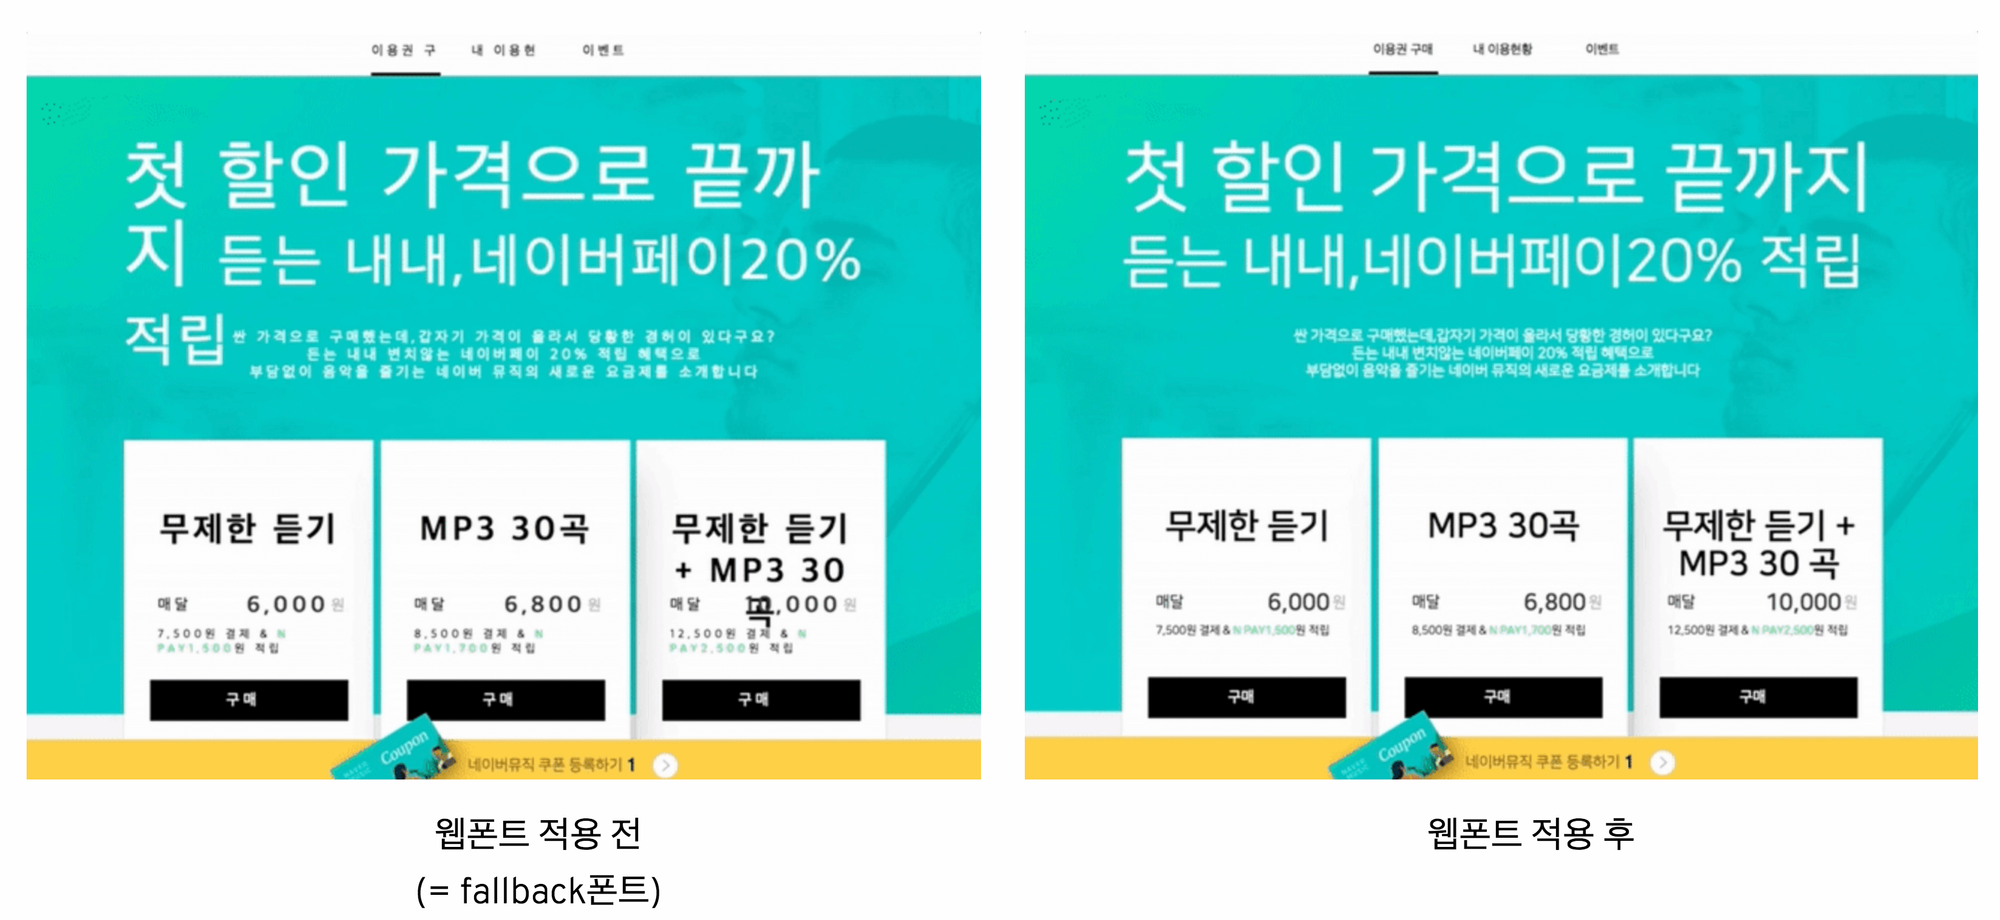
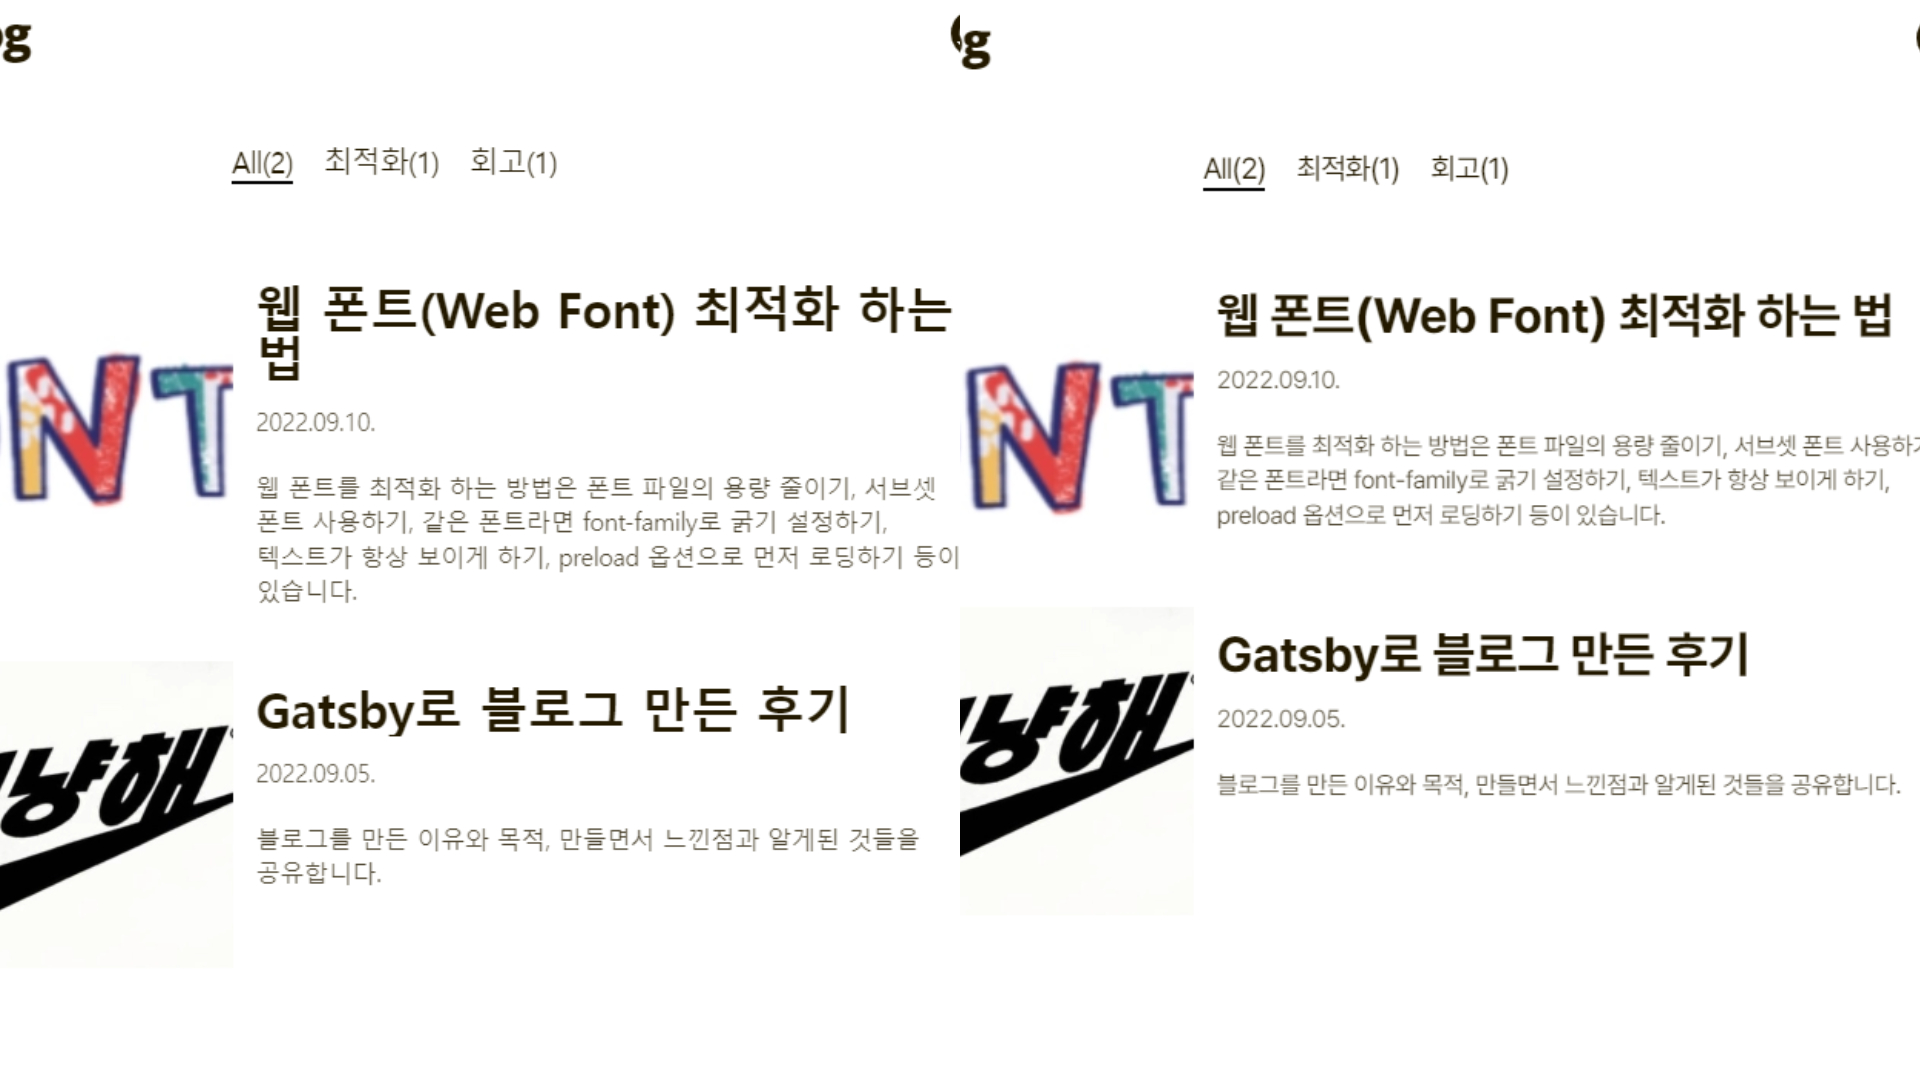
:gift: : feat: FOUT fallback 폰트 처리

diff --git a/src/components/Common/GlobalStyle.tsx b/src/components/Common/GlobalStyle.tsx
@@ -35,8 +35,9 @@ const defaultStyle = css`
 
   html,
   body,
-  div,
   span,
+  main,
+  div,
   applet,
   object,
   iframe,
@@ -101,7 +102,6 @@ const defaultStyle = css`
   figure,
   figcaption,
   footer,
-  header,
   hgroup,
   menu,
   nav,
@@ -127,7 +127,6 @@ const defaultStyle = css`
   figcaption,
   figure,
   footer,
-  header,
   hgroup,
   menu,
   nav,
@@ -136,14 +135,11 @@ const defaultStyle = css`
   }
   body {
     line-height: 1;
-    font-family: 'Pretendard', -apple-system, BlinkMacSystemFont,
-      system-ui, Roboto, 'Helvetica Neue', 'Segoe UI', 'Apple SD Gothic Neo',
-      'Noto Sans KR', 'Malgun Gothic', 'Apple Color Emoji', 'Segoe UI Emoji',
-      'Segoe UI Symbol', sans-serif;
+    font-family: sans-serif, arial;
     color: #231900;
     font-size: 16px;
     word-break: keep-all;
-    letter-spacing: -0.3px;
+    /* letter-spacing: -0.3px; */
     overflow-x: hidden;
     -webkit-font-smoothing: antialiased;
   }
@@ -162,9 +158,38 @@ const defaultStyle = css`
     border-collapse: collapse;
     border-spacing: 0;
   }
-  div,
+
   a {
     text-decoration: none;
+  }
+
+  header a[class*='Logo'] {
+    font-family: Roboto, arial, sans-serif;
+    font-size: 2rem;
+    font-weight: 700;
+    letter-spacing: -3.95px;
+  }
+
+  .lato header a[class*='Logo'] {
+    font-family: 'Lato', arial;
+    letter-spacing: -2px;
+  }
+
+  main div[class*='Title'] {
+    font-family: sans-serif, arial;
+    letter-spacing: -2.5px;
+    font-size: 2em;
+    font-weight: 900;
+  }
+
+  .pretendard main div[class*='Title'] {
+    letter-spacing: -0.3px;
+    font-weight: bold;
+    font-family: 'Pretendard', sans-serif;
+  }
+
+  .pretendard body {
+    font-family: 'Pretendard', sans-serif;
   }
 `;
 

diff --git a/static/fonts/font.css b/static/fonts/font.css
@@ -1,0 +1,40 @@
+@font-face {
+  font-family: 'Lato';
+  src: local('Lato');
+  src: url('/fonts/Lato-Black.woff2') format('woff2');
+  src: url('/fonts/Lato-Black.woff') format('woff');
+  font-weight: normal;
+  font-display: swap;
+}
+
+@font-face {
+  font-family: 'Pretendard';
+  src: local('Pretendard');
+  src: url('/fonts/Pretendard-Regular.subset.woff2') format('woff2');
+  src: url('/fonts/Pretendard-Regular.subset.woff') format('woff');
+  font-weight: normal;
+  font-display: swap;
+}
+
+@font-face {
+  font-family: 'Pretendard';
+  src: local('Pretendard');
+  src: url('/fonts/Pretendard-Bold.subset.woff2') format('woff2');
+  src: url('/fonts/Pretendard-Bold.subset.woff') format('woff');
+  font-weight: bold;
+  font-display: swap;
+}
+
+body {
+  font-family: sans-serif, Lucida Sans Unicode, arial;
+}
+
+/* .fonts-loaded body {
+  font-family: 'Pretendard', -apple-system, BlinkMacSystemFont, system-ui,
+    Roboto, 'Helvetica Neue', 'Segoe UI', 'Apple SD Gothic Neo', 'Noto Sans KR',
+    'Malgun Gothic', 'Apple Color Emoji', 'Segoe UI Emoji', 'Segoe UI Symbol',
+    sans-serif;
+} */
+.fonts-loaded body {
+  font-family: 'Pretendard', sans-serif;
+}

diff --git a/src/components/Common/Template.tsx b/src/components/Common/Template.tsx
@@ -13,10 +13,17 @@ type TemplateProps = {
   children: ReactNode;
 };
 
-const Container = styled.main`
+const Container = styled.div`
   display: flex;
   flex-direction: column;
   height: 100vh;
+`;
+
+const Main = styled.main`
+  display: flex;
+  flex-direction: column;
+  height: auto;
+  margin-top: 60px;
 `;
 
 const Template: FunctionComponent<TemplateProps> = function ({
@@ -48,7 +55,6 @@ const Template: FunctionComponent<TemplateProps> = function ({
           as="font"
           type="font/woff2"
         />
-
         <meta name="description" content={description} />
         <meta name="viewport" content="width=device-width, initial-scale=1.0" />
         <meta httpEquiv="Content-Type" content="text/html;charset=UTF-8" />
@@ -80,7 +86,7 @@ const Template: FunctionComponent<TemplateProps> = function ({
 
       <GlobalStyle />
       <Header />
-      {children}
+      <Main>{children}</Main>
       <Footer />
     </Container>
   );

diff --git a/src/components/Main/PostItem.tsx b/src/components/Main/PostItem.tsx
@@ -45,17 +45,14 @@ const PostItemContent = styled.div`
 
 const Title = styled.div`
   display: -webkit-box;
-  font-weight: bold;
-  font-size: 2em;
   overflow: hidden;
   margin-bottom: 0.5em;
   text-overflow: ellipsis;
   while-space: normal;
   overflow-wrap: break-word;
+  padding-bottom: 0.1rem;
   -webkit-line-clamp: 2;
   -webkit-box-orient: vertical;
-  font-weight: border;
-  padding-bottom: 0.1rem;
 
   @media (max-width: 768px) {
     font-size: 1.8em;

diff --git a/gatsby-browser.js b/gatsby-browser.js
@@ -6,3 +6,15 @@
 
 // You can delete this file if you're not using it
 import 'prismjs/themes/prism-tomorrow.css';
+import FontFaceObserver from 'fontfaceobserver';
+
+var bodyFont = new FontFaceObserver('Pretendard');
+var headerFont = new FontFaceObserver('Lato');
+
+headerFont.load(null, 5000).then(() => {
+	document.documentElement.classList.add('lato');
+});
+
+bodyFont.load(null, 5000).then(() => {
+	document.documentElement.classList.add('pretendard');
+});

diff --git a/src/components/Common/Header.tsx b/src/components/Common/Header.tsx
@@ -36,10 +36,6 @@ const Wrapper = styled.div`
 
 const Logo = styled(Link)`
   color: #231900;
-  font-size: 2rem;
-  line-height: 1.5rem;
-  font-family: 'Lato', sans-serif;
-  text-align: center;
   letter-spacing: -2px;
 
   @media (max-width: 768px) {

diff --git a/src/components/Post/PostContent.tsx b/src/components/Post/PostContent.tsx
@@ -174,6 +174,12 @@ const MarkdownRenderer = styled.div`
       margin: 50px 0;
       border-top: 1px solid rgba(0, 0, 0, 0.3);
     }
+    table {
+      font-size: 1.1rem;
+    }
+    td {
+      padding-left: 0.4rem;
+    }
   }
 `;
 

diff --git a/src/components/Main/CategoryList.tsx b/src/components/Main/CategoryList.tsx
@@ -62,7 +62,7 @@ const CategoryListWrapper = styled.div`
   flex-wrap: wrap;
   justify-content: center;
   width: 768px;
-  margin: 100px auto 0;
+  margin: 40px auto 0;
 
   @media (max-width: 768px) {
     width: 100%;

diff --git a/gatsby-config.js b/gatsby-config.js
@@ -106,9 +106,5 @@ module.exports = {
       },
     },
     `gatsby-plugin-subfont`,
-    {
-      resolve: 'gatsby-plugin-web-font-loader',
-      options: {},
-    },
   ],
 };

diff --git a/contents/webfont-optimization.md b/contents/webfont-optimization.md
@@ -90,7 +90,7 @@ WOFF2 형식은 모든 브라우저에서 사용할 수 있고 용량이 가장 
 }
 ```
 
-font-family명은 NanumSquareWeb으로 하나지만 font-weight를 이용하여 사용할 웹 폰트를 다르게 선언하고 있습니다. 이런 경우,
+font-family명은 pretendard 하나지만 font-weight를 이용하여 사용할 웹 폰트를 다르게 선언하고 있습니다. 이런 경우,
 
 - font-weight가 300일 경우에는 Pretendard-Light.woff
 - font-weight가 400일 경우에는 Pretendard-Regular.woff
@@ -148,18 +148,50 @@ CSS의 font-display 속성을 이용하면 웹 폰트의 로딩 상태에 따른
 
 ![FOUT의 단점 레아이웃 깨짐](./images/FOUT-side-effect.png)
 
-위와 같이 FOUT의 단점은 글꼴의 자간, 높이 등 서식이 달라 웹 폰트 적용 전과 후의 레이아웃이 변경될 수 있다고 했습니다. 이것은 [Font Face Observer 라이브러리와](https://d2.naver.com/helloworld/4969726#ch4-2) [Font style matcher](https://sangziii.github.io/fontStyleMatcher) 앱을 사용하면 문제를 해결할 수 있습니다.
+위와 같이 FOUT의 단점은 글꼴의 자간, 높이 등 서식이 달라 웹 폰트 적용 전과 후의 레이아웃이 변경될 수 있다고 했습니다. 이것은 [Font Face Observer](https://fontfaceobserver.com/), [Font style matcher](https://sangziii.github.io/fontStyleMatcher)를 사용하면 문제를 해결할 수 있습니다.
+
+### font face observer
+
+이 모듈을 사용하는 이유는 용량이 매우 적게 들기 때문입니다. 이것은 웹 폰트의 로딩시점을 사용자에게 알려주어 전과 후의 폰트 스타일링을 할 수 있습니다.
+
+```jsx
+import FontFaceObserver from 'fontfaceobserver';
+
+var font = new FontFaceObserver('Pretendard');
+font.load(null, 5000).then(() => {
+  document.documentElement.classList.add('fonts-loaded');
+});
+```
+
+js 파일에 Promise 코드를 작성해줍니다.
+
+```css
+body {
+  font-family: arial, sans-serif;
+  font-size: 2rem;
+  font-weight: 700;
+  letter-spacing: -3.95px;
+}
+
+.fonts-loaded body {
+  font-family: 'Pretendard', arial;
+  letter-spacing: -2px;
+}
+```
+
+이렇게 웹 폰트의 로드가 끝나면 fonts-loaded class를 추가해주어 스타일을 바꿀 수 있습니다.
+
+### Font style matcher
 
 fallback 폰트는 각 OS 별로 어떤 폰트를 기본으로 내장하고 있는지를 확인한 뒤, 설정합니다.
 
 참고 : [https://granneman.com/webdev/coding/css/fonts-and-formatting/default-fonts](https://granneman.com/webdev/coding/css/fonts-and-formatting/default-fonts)
 
-Font style matcher에서 fallback 폰트와 사용할 웹 폰트를 설정하면 두 가지 폰트가 같은 위치에 겹쳐서 표시됩니다. 이것을 이용하여 적용 전 후 상태를 체크할 수 있습니다.
+font style matcher는 시스템 폰트와 웹 폰트의 레이아웃을 맞추기 위해 사용합니다.
 
 ![font matcher 사용방법](./images/font-matcher.png)
 
-![font face observer 적용방법](./images/font-face-observer.png)
-두 폰트의 레이아웃을 최대한 맞춰줍니다.
+allback 폰트와 사용할 웹 폰트를 설정하면 두 가지 폰트가 같은 위치에 겹쳐서 표시됩니다. 이것을 이용하여 적용 전 후 상태를 체크할 수 있습니다.
 
 ## 5. **preload 옵션으로 먼저 로딩하기**
 

diff --git a/contents/review-of-the-gatsby-blog.md b/contents/review-of-the-gatsby-blog.md
@@ -1,6 +1,6 @@
 ---
 date: '2022-09-05'
-title: 'Gatsby로 블로그 만든 후기'
+title: 'Gatsby로 블로그 만든 후기 Gatsby로 블로그 만든 후기 Gatsby로 블로그 만든 후기'
 categories: ['회고']
 summary: '블로그를 만든 이유와 목적, 만들면서 느낀점과 알게된 것들을 공유합니다.'
 thumbnail: './thumbnail/just-do-it.jpg'
@@ -15,7 +15,7 @@ thumbnail: './thumbnail/just-do-it.jpg'
 저는 [ReactJS로 영어 단어 앱](https://www.youtube.com/playlist?list=PLZKTXPmaJk8J_fHAzPLH8CJ_HO_M33e7-)을 만들어보았고, 프로그래머스에서 [프론트엔드 개발을 위한 자바스크립트](https://school.programmers.co.kr/learn/courses/14723)를 참여하여 상태관리에 대해 익혔으며, [TypeScript는 대충 이렇게 사용하는거구나~](https://www.youtube.com/playlist?list=PLZKTXPmaJk8KhKQ_BILr1JKCJbR0EGlx0)라는걸 음미만 해본 상태입니다. 또한 [gatsby 공식 홈페이지에서 제공하는 튜토리얼](https://www.gatsbyjs.com/docs/tutorial/)도 따라해봤습니다. 그래도 아직 많은 개념들이 헷갈리는 상황이였습니다. 할까 말까 망설이다가 이 말이 생각났습니다.
 
 <p align="center">
-<img src="./images/just-do-it.jpg" alt="just do it image">
+<img src="./thumbnail/just-do-it.jpg" alt="just do it image">
 </p>
 
 `네.. 그냥 해보자!` 라는 말입니다. 그래서 그냥 만들게 되었습니다.
